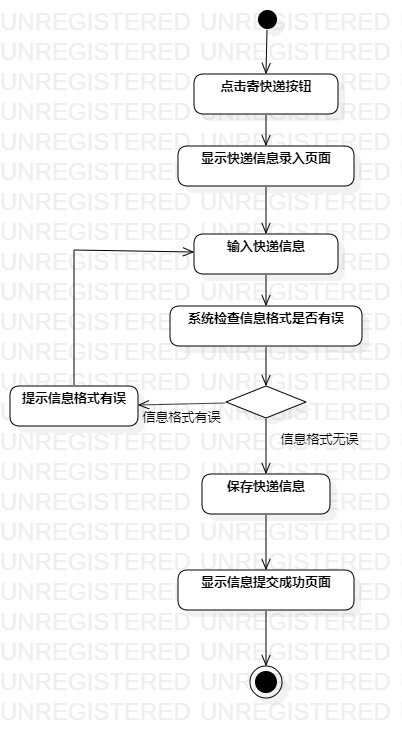
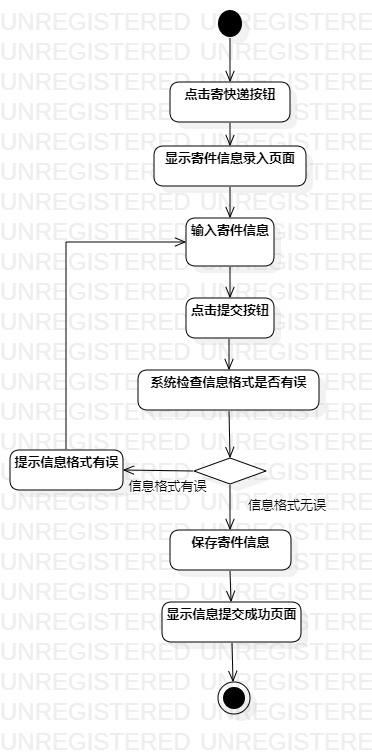
#6 #582 实验六：交互建模

diff --git a/students/1714080902232/lab2.md b/students/1714080902232/lab2.md
@@ -66,9 +66,9 @@
 | 前置条件 | 使用者登录进入快递帮小程序                        | *可选*               |
 | 后置条件 | 使用者进入小程序首页                              | *可选*               |
 | 基本流程 | 1.使用者点击寄快递按钮；                          | *用例执行成功的步骤* |
-| ~        | 2.系统显示快递信息录入页面；                      |                      |
-| ~        | 3.使用者输入快递信息，点击提交按钮；              |                      |
-| ~        | 4.系统检查输入信息格式无误，保存快递信息；        |                      |
+| ~        | 2.系统显示寄件信息录入页面；                      |                      |
+| ~        | 3.使用者输入寄件信息，点击提交按钮；              |                      |
+| ~        | 4.系统检查输入信息格式无误，保存寄件信息；        |                      |
 | ~        | 5.系统显示提交成功页面。                          |                      |
 | 扩展流程 | 4.1系统检查输入信息格式有误，提示使用者重新输入。 | *用例执行失败*       |
 
@@ -85,7 +85,7 @@
 | 后置条件 |                                                    | *可选*               |
 | 基本流程 | 1.使用者点击查快递按钮；                           | *用例执行成功的步骤* |
 | ~        | 2.系统显示快递单号录入页面；                       |                      |
-| ~        | 3.使用者输入快递单号，点击提交按钮；               |                      |
+| ~        | 3.使用者输入快递单号，点击查询按钮；               |                      |
 | ~        | 4.系统检查快递单号不为空，查询快递物流信息；       |                      |
 | ~        | 5.系统显示快递物流信息。                           |                      |
 | 扩展流程 | 4.1.系统检查快递单号为空，显示“快递单号不能为空”。 | *用例执行失败*       |

diff --git a/students/1714080902232/lab6.md b/students/1714080902232/lab6.md
@@ -1,0 +1,46 @@
+# 实验六：交互建模
+
+
+
+## 一、实验目标
+
+1.理解系统交互；
+
+2.掌握UML顺序图的画法；
+
+3.掌握对象交互的定义与建模方法。
+
+
+
+## 二、实验内容
+
+1.根据用例模型和类模型确定对象；
+
+2.在顺序图上画出参与者；
+
+3.根据活动中的操作步骤画出顺序图上的消息。
+
+
+
+## 三、实验步骤
+
+1.使用StarUml创建顺序图；
+
+2.根据用例图和类图画出参与者；
+
+3.根据活动图的操作步骤绘制参与者之间的消息。
+
+
+
+## 四、实验结果
+
+![寄快递顺序图](./寄快递顺序图.jpg)
+
+图1：寄快递顺序图
+
+![查快递顺序图](./查快递顺序图.jpg)
+
+图2：查快递顺序图
+
+
+
